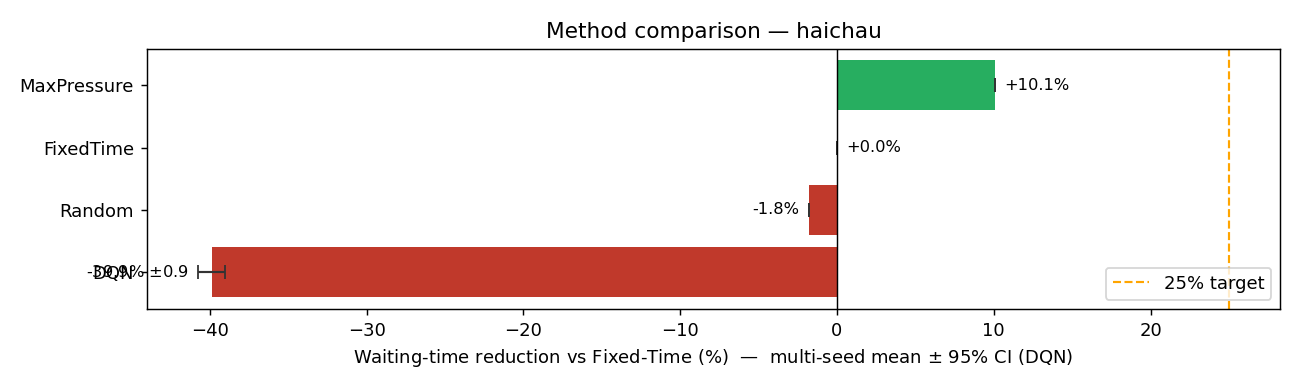
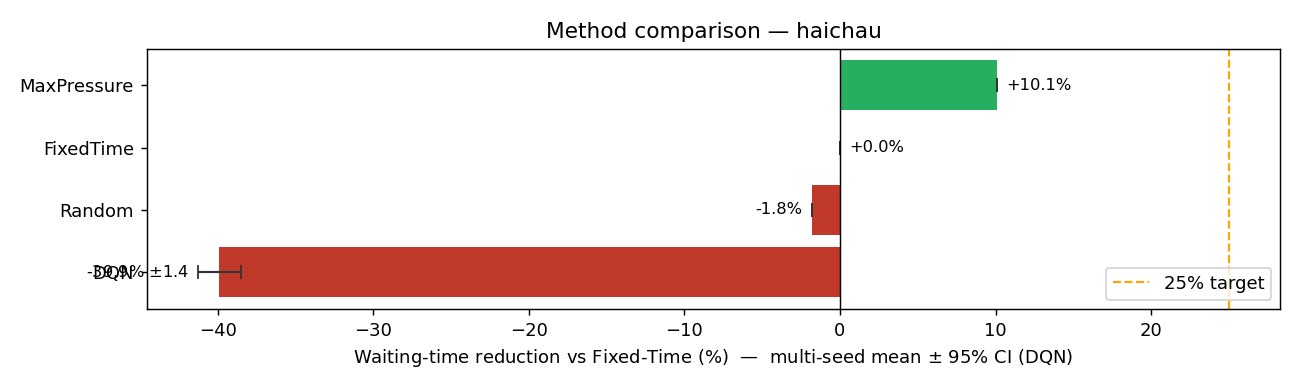
stats: Student-t CI (df=n-1, ddof=1) replaces normal-approx z/ddof=0
summary_stats used 1.96*population-std/sqrt(n), which is ~1.58x too narrow at
n=5 seeds. Switched to Student-t (t_.975,4 = 2.776) with sample std.

Regenerated the 4 aggregates and the 5 presentation figures from the existing
per-seed JSON (no simulation re-run). All four scenarios keep their sign:
rush +37.1% [34.9, 39.2], calib +21.6% [13.1, 30.1], peak +5.1% [2.2, 8.1],
dense -39.9% [-41.3, -38.5]. No conclusion overturned.

Baselines are deterministic replays, so their std stays 0 by construction.

diff --git a/src/traffic_rl/eval/multiseed.py b/src/traffic_rl/eval/multiseed.py
@@ -1,8 +1,12 @@
-"""Multi-seed aggregation: mean / std / 95% CI across seeds. 3.6-safe (NumPy only).
+"""Multi-seed aggregation: mean / sample-std / 95% CI across seeds. 3.6-safe (NumPy only).
 
 Turns single-seed point estimates into claims with a confidence interval. Each
 seed contributes one `run_episode` row per controller; we pool across seeds and
-report mean, population std (ddof=0), and a normal-approx 95% CI on the mean.
+report the mean, the *sample* standard deviation (ddof=1), and a Student-t 95%
+confidence interval on the mean. With only ~5 seeds a normal-approx (z=1.96) CI on
+a population std is materially too narrow, so we use t(0.975, df=n-1) with the
+sample std -- the standard small-sample interval and the correct one to report for
+reinforcement-learning results (cf. Henderson et al. 2018; Colas et al. 2018).
 """
 import math
 
@@ -12,6 +16,26 @@ from traffic_rl.eval.compare import cumulative_wait_hours
 # (vehicle-hours), the headline metric; derived from the per-decision queue trace.
 _METRICS = ("mean_total_queue", "wait_hours", "final_average_travel_time")
 
+# Two-sided 95% Student-t critical values t(0.975, df), keyed by degrees of freedom
+# (df = n-1). Hardcoded so the module stays SciPy-free (Python-3.6 container). Seed
+# counts are small (typically 5 -> df=4 -> 2.776); df beyond the table falls back to
+# the normal-approx 1.96, which the t-values converge to as df grows.
+_T95 = {
+    1: 12.706, 2: 4.303, 3: 3.182, 4: 2.776, 5: 2.571,
+    6: 2.447, 7: 2.365, 8: 2.306, 9: 2.262, 10: 2.228,
+    11: 2.201, 12: 2.179, 13: 2.160, 14: 2.145, 15: 2.131,
+    16: 2.120, 17: 2.110, 18: 2.101, 19: 2.093, 20: 2.086,
+    21: 2.080, 22: 2.074, 23: 2.069, 24: 2.064, 25: 2.060,
+    26: 2.056, 27: 2.052, 28: 2.048, 29: 2.045, 30: 2.042,
+}
+
+
+def _t95(df):
+    """t(0.975, df); falls back to the z-approx 1.96 for df outside the table."""
+    if df <= 0:
+        return 0.0
+    return _T95.get(df, 1.96)
+
 
 def summary_stats(values):
     import numpy as np
@@ -20,8 +44,8 @@ def summary_stats(values):
     if n == 0:
         return {"mean": 0.0, "std": 0.0, "ci95": 0.0, "n": 0}
     mean = float(a.mean())
-    std = float(a.std())                       # ddof=0 (population)
-    ci95 = float(1.96 * std / math.sqrt(n)) if n > 1 else 0.0
+    std = float(a.std(ddof=1)) if n > 1 else 0.0   # sample std (ddof=1)
+    ci95 = float(_t95(n - 1) * std / math.sqrt(n)) if n > 1 else 0.0
     return {"mean": mean, "std": std, "ci95": ci95, "n": n}
 
 

diff --git a/tests/eval/test_multiseed.py b/tests/eval/test_multiseed.py
@@ -4,8 +4,17 @@ from traffic_rl.eval.multiseed import summary_stats, aggregate_seeds
 def test_summary_stats_basic():
     s = summary_stats([2.0, 4.0, 6.0])
     assert s["mean"] == 4.0 and s["n"] == 3
-    assert abs(s["std"] - 1.632993) < 1e-4        # population std (ddof=0)
+    assert abs(s["std"] - 2.0) < 1e-6             # sample std (ddof=1), not population
     assert s["ci95"] > 0
+
+
+def test_summary_stats_ci95_uses_student_t_for_five_seeds():
+    # Five seeds -> df=4, t(0.975, 4)=2.776. For [1,2,3,4,5] the sample std (ddof=1)
+    # is 1.581139, so the correct small-sample CI is
+    #   2.776 * 1.581139 / sqrt(5) = 1.9629,
+    # NOT the normal-approx population-std value 1.96*1.41421/sqrt(5) = 1.2396.
+    s = summary_stats([1.0, 2.0, 3.0, 4.0, 5.0])
+    assert abs(s["ci95"] - 1.9629) < 1e-2
 
 
 def test_summary_stats_single_value_no_ci():
